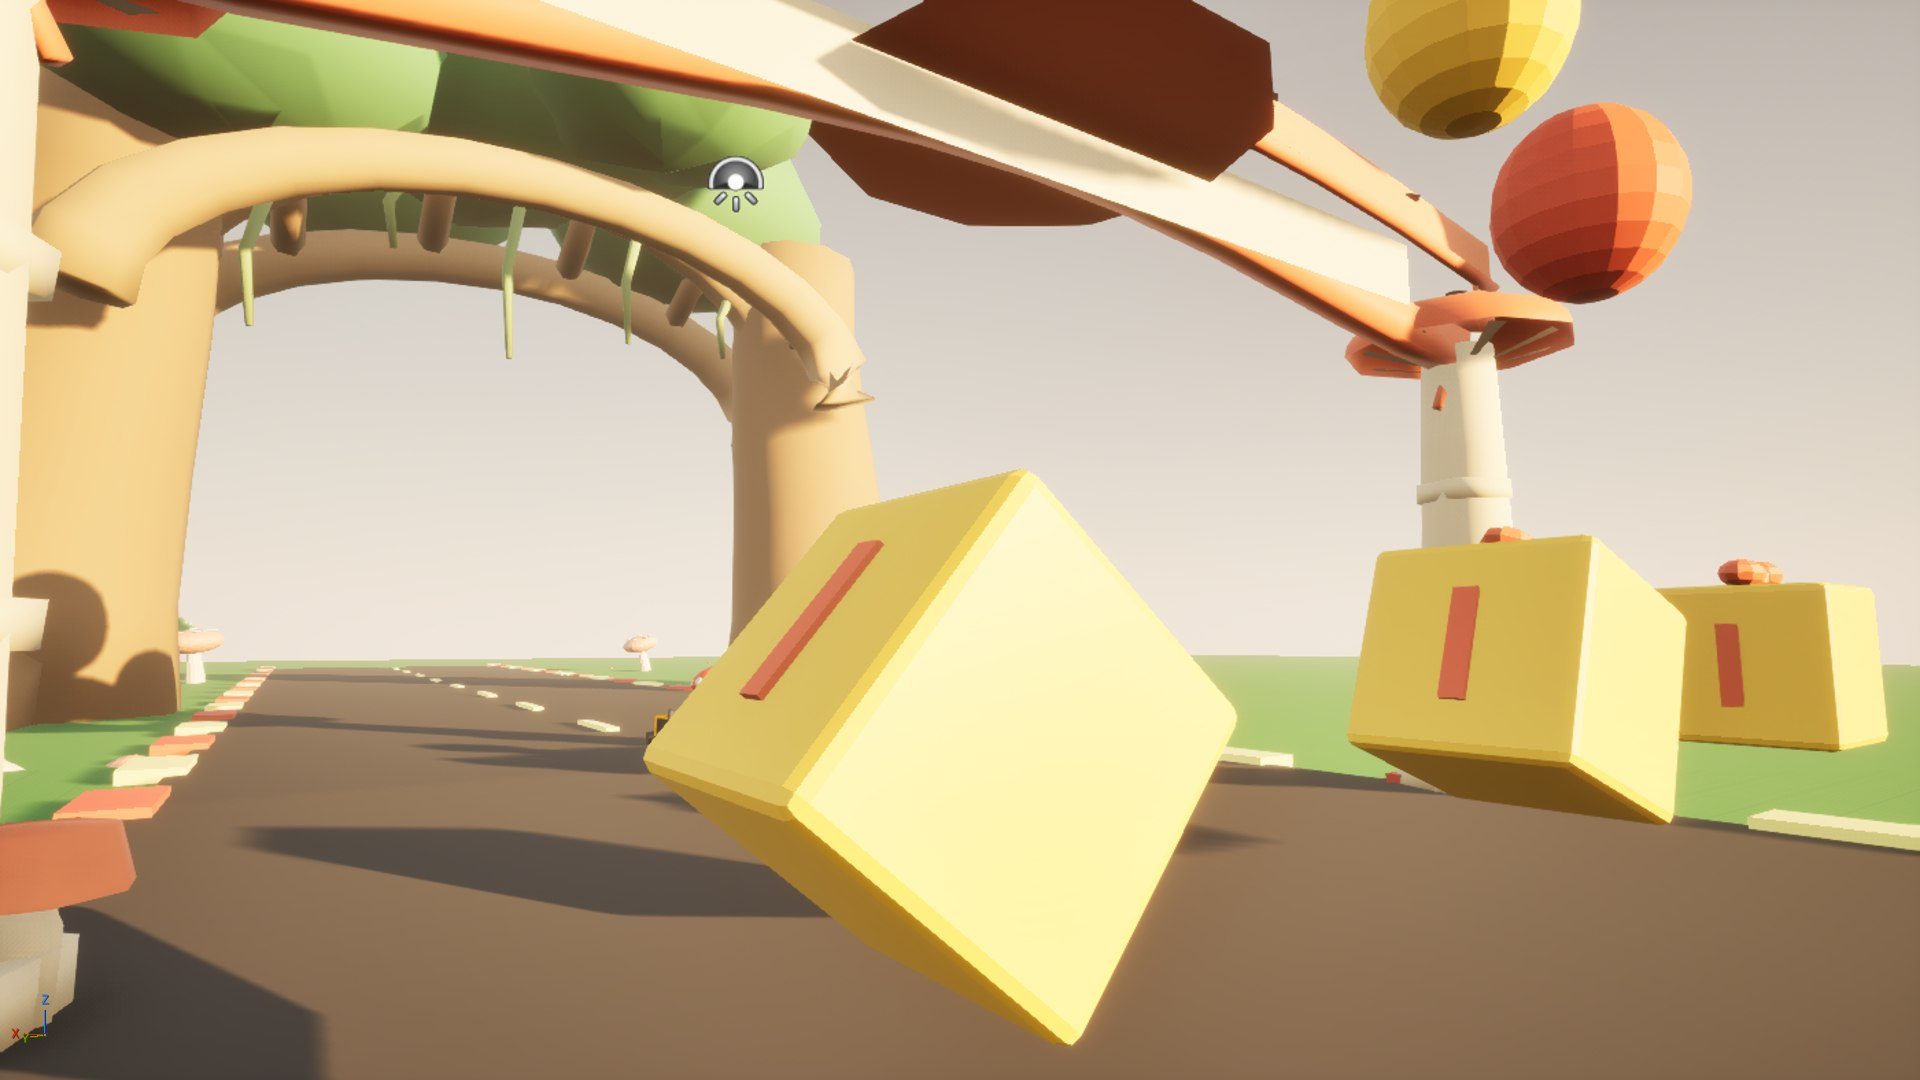
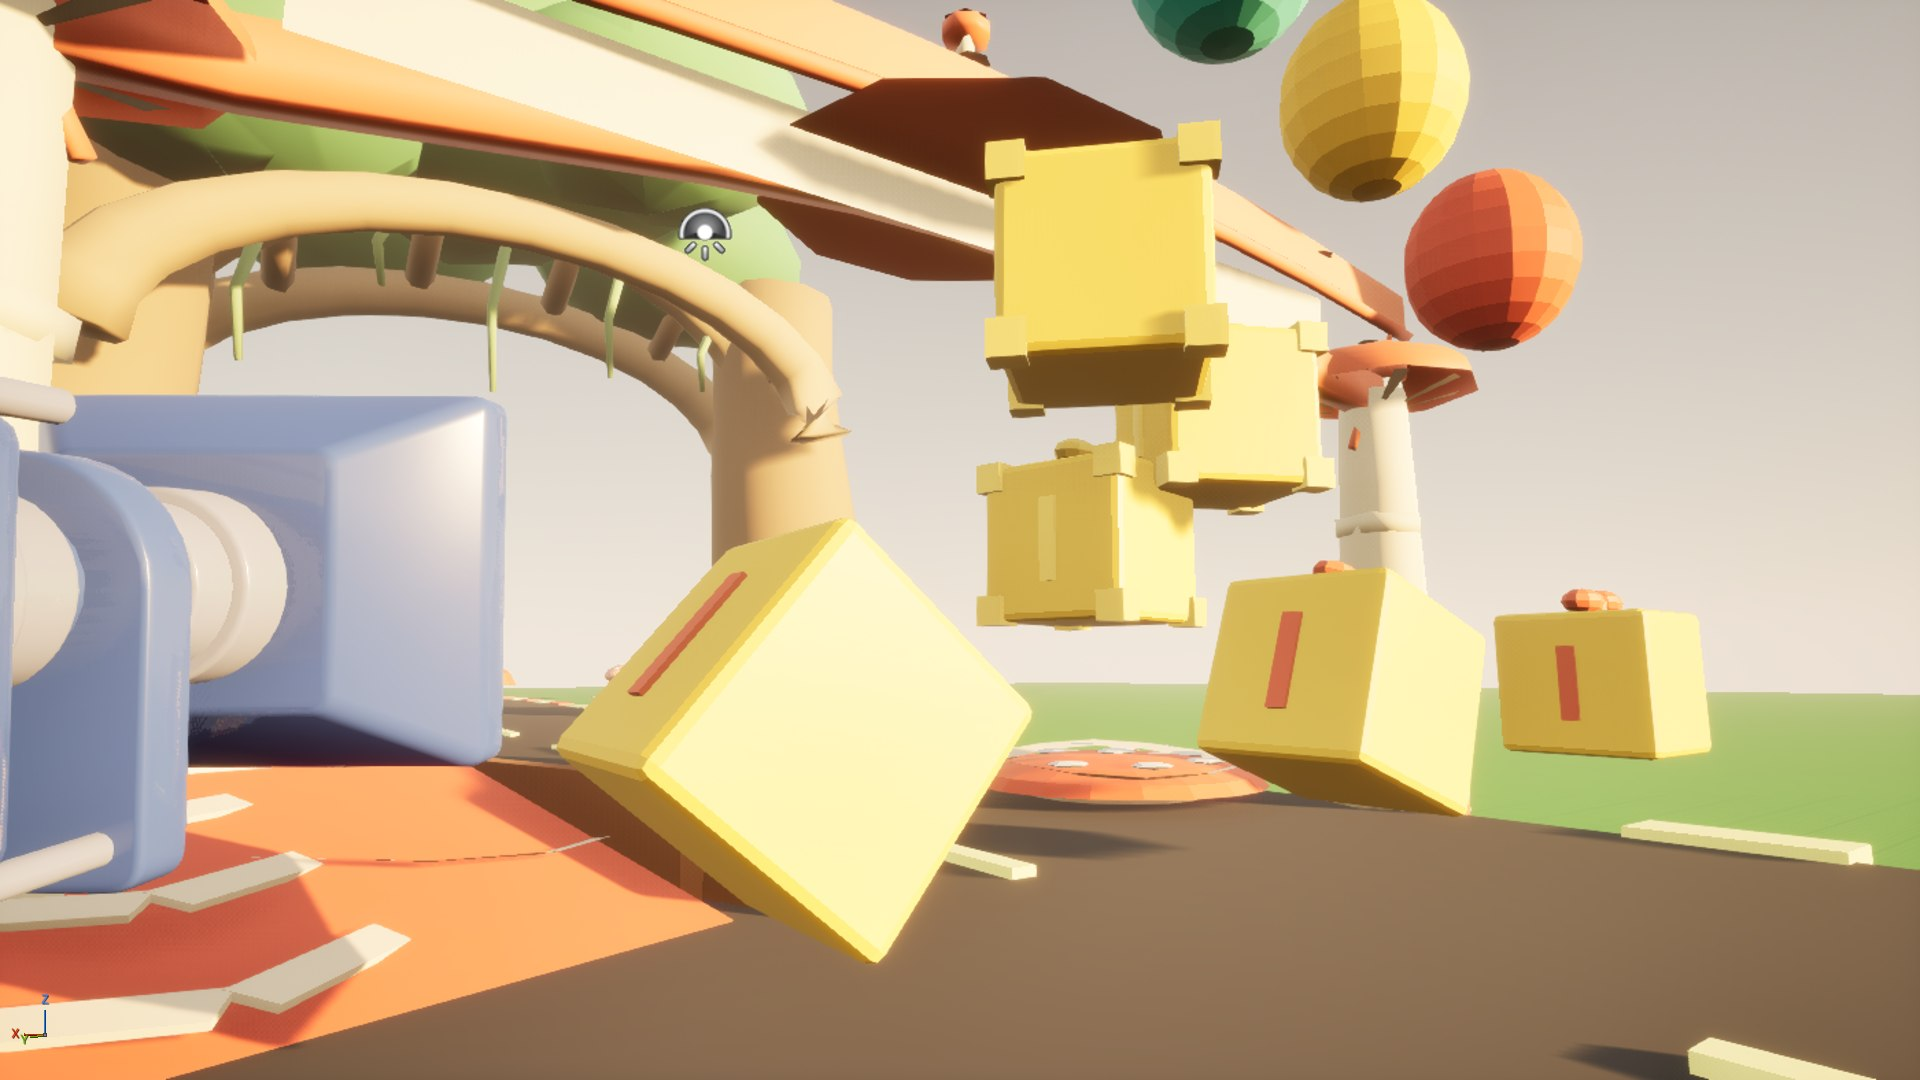
Runde 37: Keyart erneuert - og:image und Hochformat zeigen die facelifteten Assets (Item-Boxen, Sprungpilze, Schanze) im Unreal-Keyart-Level; Backups gesichert

diff --git a/README.md b/README.md
@@ -4,6 +4,18 @@ Spielbarer 3D-Arcade-Kart-Prototyp fuer den Browser, gebaut am 13.09.2026.
 
 Live: https://madd1in.github.io/mushroom-rally/
 
+## Runde 37 (23.09.2026): Keyart mit allen Facelift-Assets erneuert
+
+Das Teaserbild (og:image) und die Hochformat-Variante fuer Story-Posts zeigen jetzt die
+faceliftete Ausstattung: drei schwebende Item-Boxen mit goldenen Eckkappen vor dem Sporentor,
+zwei Sprungpilze mit welliger Krempe am Strassenrand und die Pilzschanze mit Fussbalken
+seitlich - dazu Tor, Ballonbogen und Kart wie gehabt. Aufnahmen aus dem Unreal-Keyart-Level
+(HighResShot quer 1920x1080 und hoch 1080x1920, JPG Qualitaet 88); alte Bilder in
+art/r37/backup/. Level mit der neuen Deko-Gruppe R37_KeyartRefresh gespeichert.
+
+**Verifikation:** Sichtpruefung beider Aufnahmen (Komposition teilbar, nichts abgeschnitten,
+Belichtung gut); Dateien lokal 1920x1080 und 1080x1920 bestätigt.
+
 ## Runde 36 (23.09.2026): Tribuene, Geist, Trophaee, Podium
 
 Vier Facelifts in einem Zug, alle rein dekorativ (Korpus, Materialzuordnung und alle
